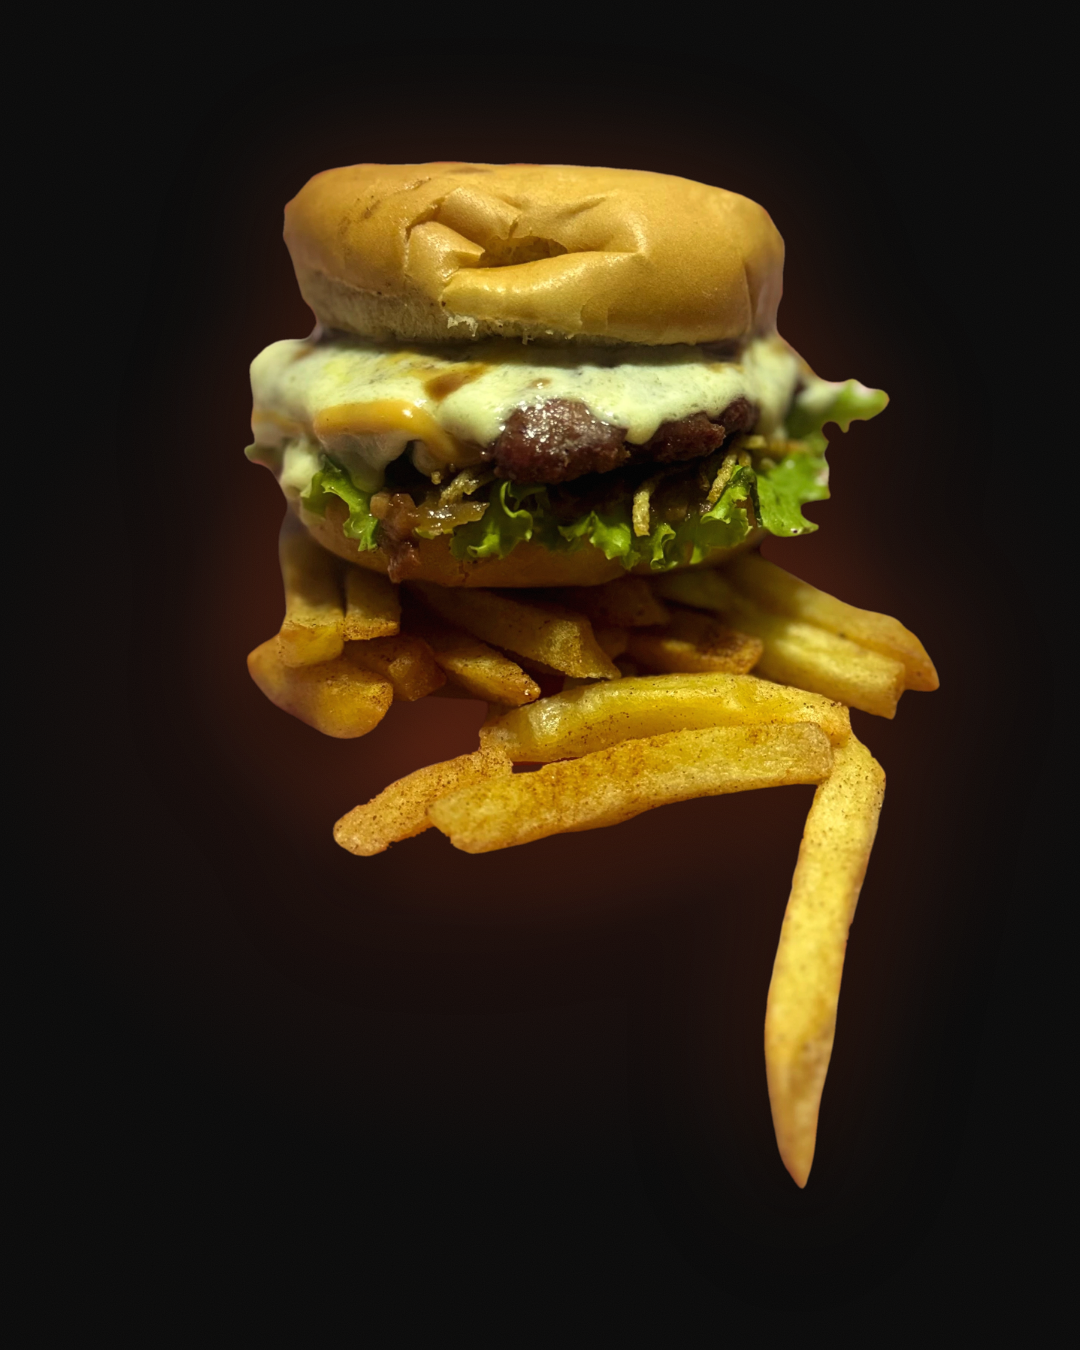
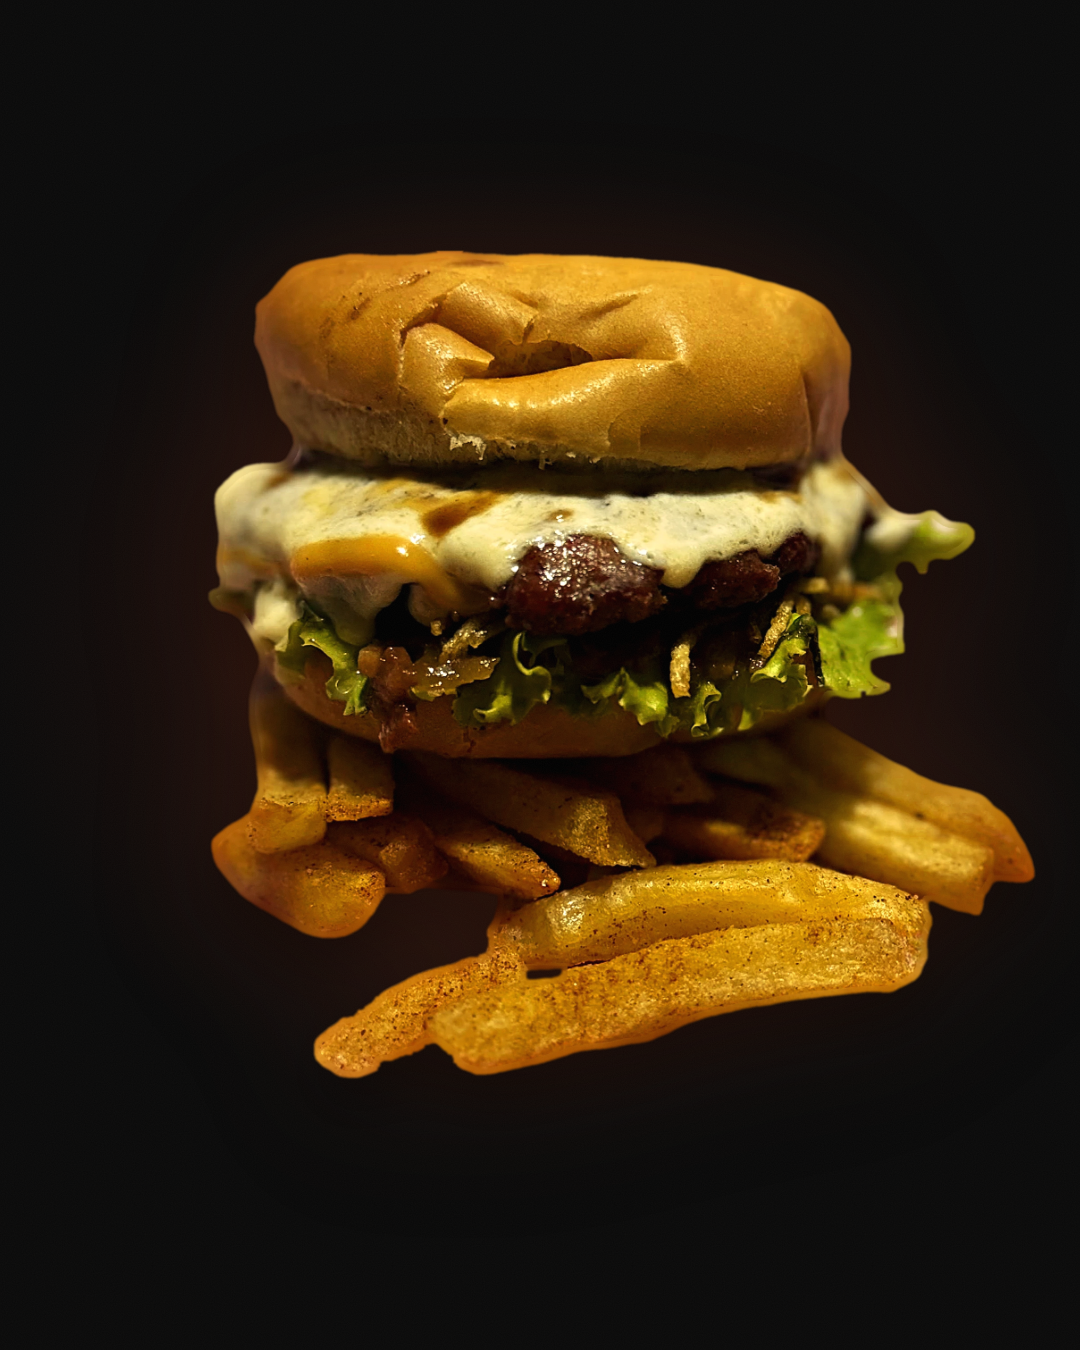
origo: La Brasa retocada, sin precio y centrada
- Papa larga borrada con IA (LaMa) sobre la foto original y nuevo recorte
- Gradación de color: sin tinte verde, pan tostado, carne y papas con más vida
- Silueta pareja y bordes descontaminados del rojo del mantel
- Pieza sin precio, nombre centrado y hamburguesa alineada al eje del pan
- Scripts del proceso en foto/proceso para repetirlo con otros platos

Claude-Session: https://claude.ai/code/session_01UkupjETp9Vt18pzUyhjpjY

diff --git a/origo/foto/la-brasa.html b/origo/foto/la-brasa.html
@@ -32,8 +32,8 @@
     position: relative;
     overflow: hidden;
     background:
-      radial-gradient(ellipse 520px 430px at 50% 47%, rgb(255 90 31 / 0.30), rgb(255 90 31 / 0) 70%),
-      radial-gradient(ellipse 760px 640px at 50% 52%, rgb(42 15 10 / 0.95), rgb(42 15 10 / 0) 75%),
+      radial-gradient(ellipse 500px 420px at 50% 46%, rgb(255 90 31 / 0.30), rgb(255 90 31 / 0) 70%),
+      radial-gradient(ellipse 760px 640px at 50% 48%, rgb(42 15 10 / 0.95), rgb(42 15 10 / 0) 75%),
       var(--negro);
   }
 
@@ -64,12 +64,13 @@
   .plato {
     position: absolute;
     left: 50%;
-    top: 205px;
-    height: 830px;
-    /* El pan queda centrado; la papa larga de la derecha descentra la caja de la imagen. */
-    transform: translateX(calc(-50% + 42px));
+    top: 225px;
+    height: 790px;
+    /* Las papas se abren más a la derecha: se corre la imagen para que el eje del pan
+       quede en el centro del lienzo (desfase medido: 9.85% del ancho de la imagen). */
+    transform: translateX(calc(-50% + 9.85%));
     filter:
-      drop-shadow(0 0 60px rgb(255 90 31 / 0.22))
+      drop-shadow(0 0 70px rgb(255 90 31 / 0.12))
       drop-shadow(0 28px 30px rgb(0 0 0 / 0.65));
   }
 
@@ -77,11 +78,8 @@
     position: absolute;
     left: var(--margen-x);
     right: var(--margen-x);
-    bottom: 150px;
-    display: flex;
-    align-items: center;
-    justify-content: space-between;
-    gap: 24px;
+    bottom: 156px;
+    text-align: center;
   }
   .ficha__nombre {
     margin: 0;
@@ -101,14 +99,6 @@
     color: var(--brasa);
     text-transform: uppercase;
   }
-  .ficha__precio {
-    font-family: var(--f-titular);
-    font-size: 76px;
-    line-height: 1;
-    color: var(--mostaza);
-    white-space: nowrap;
-  }
-
   .pie {
     position: absolute;
     left: 0;
@@ -140,7 +130,7 @@
   .lienzo--limpia .marca,
   .lienzo--limpia .ficha,
   .lienzo--limpia .pie { display: none; }
-  .lienzo--limpia .plato { top: 160px; height: 1030px; transform: translateX(calc(-50% + 52px)); }
+  .lienzo--limpia .plato { top: 250px; height: 830px; }
 </style>
 </head>
 <body>
@@ -165,11 +155,8 @@
   <img class="plato" src="../assets/la-brasa-recorte.webp" alt="Hamburguesa La Brasa con papas fritas">
 
   <section class="ficha">
-    <div>
-      <h1 class="ficha__nombre">La Brasa</h1>
-      <p class="ficha__tipo">Hamburguesa con papas</p>
-    </div>
-    <span class="ficha__precio">$22.000</span>
+    <h1 class="ficha__nombre">La Brasa</h1>
+    <p class="ficha__tipo">Hamburguesa con papas</p>
   </section>
 
   <footer class="pie">

diff --git a/origo/foto/proceso/bordes.py b/origo/foto/proceso/bordes.py
@@ -1,0 +1,43 @@
+"""Silueta más pareja: quita picos pequeños del recorte y unifica la suavidad del borde."""
+import sys
+import numpy as np
+from PIL import Image, ImageFilter
+
+src, dst = sys.argv[1:3]
+im = Image.open(src).convert("RGBA")
+a = im.getchannel("A")
+
+# Apertura morfológica: elimina salientes finas (pelusas de lechuga, bordes dentados).
+binaria = a.point(lambda p: 255 if p > 110 else 0)
+abierta = binaria.filter(ImageFilter.MinFilter(13)).filter(ImageFilter.MaxFilter(13))
+# Cierre: rellena muescas pequeñas hacia adentro.
+cerrada = abierta.filter(ImageFilter.MaxFilter(9)).filter(ImageFilter.MinFilter(9))
+# Borde suave y homogéneo en toda la silueta.
+suave = cerrada.filter(ImageFilter.GaussianBlur(2.2))
+
+# Nunca agregar opacidad donde el recorte original no tenía comida.
+final = np.minimum(np.asarray(suave), np.asarray(a.filter(ImageFilter.MaxFilter(5))))
+# Descontaminar el borde: el contorno trae color del mantel. Se reemplaza por el color
+# del interior inmediato (promedio ponderado de la zona sólida cercana).
+rgb = np.asarray(im.convert("RGB")).astype(np.float32)
+interior = Image.fromarray(((final > 250) * 255).astype(np.uint8)).filter(ImageFilter.MinFilter(17))
+w = np.asarray(interior.filter(ImageFilter.GaussianBlur(14))).astype(np.float32)[..., None] / 255
+num = np.stack([np.asarray(Image.fromarray((rgb[..., c] * (np.asarray(interior)[..., ] / 255)).astype(np.uint8))
+                .filter(ImageFilter.GaussianBlur(14))).astype(np.float32) for c in range(3)], -1)
+color_interior = num / np.maximum(w, 1e-3)
+franja = np.asarray(Image.fromarray(((final < 250) * 255).astype(np.uint8)).filter(ImageFilter.MaxFilter(19))) > 0
+franja &= final > 0
+peso = np.where(franja[..., None] & (w > 0.02), 0.8, 0.0)
+rgb = rgb * (1 - peso) + color_interior * peso
+im = Image.fromarray(np.clip(rgb, 0, 255).astype(np.uint8))
+
+im.putalpha(Image.fromarray(final.astype(np.uint8)))
+im = im.crop(im.getbbox())
+im.save(dst)
+
+# Eje del pan: centro horizontal de las filas superiores (tapa del pan).
+al = np.asarray(im.getchannel("A")) > 128
+filas = al[: int(al.shape[0] * 0.2)]
+xs = [np.nonzero(f)[0] for f in filas if f.any()]
+centro_pan = np.mean([(x.min() + x.max()) / 2 for x in xs])
+print("ok", im.size, "centro_pan_x", round(centro_pan), "desfase_px", round(centro_pan - im.width / 2))

diff --git a/origo/foto/proceso/limpiar.py b/origo/foto/proceso/limpiar.py
@@ -1,0 +1,50 @@
+"""Limpia restos del mantel rojo/blanco en el recorte y aplica un ajuste cálido."""
+import sys
+import numpy as np
+from PIL import Image, ImageFilter
+
+src, dst = sys.argv[1:3]
+im = Image.open(src).convert("RGBA")
+a = np.asarray(im).astype(np.float32)
+r, g, b, al = a[..., 0], a[..., 1], a[..., 2], a[..., 3]
+
+# 1) Píxeles de mantel: rojo/rosado con azul por encima del verde (la comida es naranja/amarilla).
+mantel = (r > g + 55) & (b > g + 8) & (r > 140)
+# En la zona de las papas (debajo del pan) el mantel aparece en sombra: umbral más amplio.
+filas = np.arange(a.shape[0])[:, None]
+zona_papas = filas > int(a.shape[0] * 0.57)
+mantel |= zona_papas & (r > g + 30) & (b > g - 2) & (r > 80)
+# Rojo del mantel en sombra entre papas: verde bajo y algo de azul (la papa casi no tiene azul).
+mantel |= zona_papas & (r > g + 65) & (g < 100) & (b > 25)
+mantel_img = Image.fromarray((mantel * 255).astype(np.uint8)).filter(ImageFilter.MaxFilter(5))
+mantel = np.asarray(mantel_img) > 0
+
+# Mantel blanco que se cuela por huecos: muy claro y casi sin saturación, cerca del borde.
+borde_ext = np.asarray(Image.fromarray((al < 250).astype(np.uint8) * 255).filter(ImageFilter.MaxFilter(25))) > 0
+blanco = (r > 215) & (g > 205) & (b > 200) & borde_ext
+
+al = np.where(mantel | blanco, 0, al)
+
+# 2) Contraer y suavizar el borde 2 px para quitar el halo.
+alpha = Image.fromarray(al.astype(np.uint8)).filter(ImageFilter.MinFilter(5)).filter(ImageFilter.GaussianBlur(1.6))
+al = np.asarray(alpha).astype(np.float32)
+
+# 3) Despill: en la franja del borde, neutralizar tonos rosados residuales.
+franja = np.asarray(Image.fromarray((al < 250).astype(np.uint8) * 255).filter(ImageFilter.MaxFilter(9))) > 0
+rosado = franja & (r > g + 25) & (b > g - 5)
+r = np.where(rosado, g * 1.18, r)
+b = np.where(rosado, g * 0.62, b)
+
+# 4) Ajuste cálido suave para que la comida entone con la luz de brasa.
+r = r * 1.04 + 4
+g = g * 1.00
+b = b * 0.90
+rgb = np.clip(np.stack([r, g, b], -1), 0, 255)
+# Contraste leve alrededor del medio tono.
+rgb = np.clip((rgb - 128) * 1.07 + 128, 0, 255)
+
+out = np.dstack([rgb, al]).astype(np.uint8)
+res = Image.fromarray(out, "RGBA")
+res = res.crop(res.getbbox())
+res.save(dst)
+print("ok", res.size)

diff --git a/origo/foto/proceso/color.py b/origo/foto/proceso/color.py
@@ -1,0 +1,58 @@
+"""Gradación de color 'apetitosa' para la hamburguesa recortada (RGBA)."""
+import sys
+import numpy as np
+from PIL import Image, ImageFilter
+
+src, dst = sys.argv[1:3]
+im = Image.open(src).convert("RGBA")
+alpha = im.getchannel("A")
+rgb = np.asarray(im.convert("RGB")).astype(np.float32) / 255
+
+# 1) Balance: quitar el verde de la luz del local y calentar.
+rgb[..., 0] *= 1.025
+rgb[..., 1] *= 0.975
+rgb[..., 2] *= 0.955
+
+# 2) Trabajo por tono en HSV.
+hsv = np.asarray(Image.fromarray((np.clip(rgb, 0, 1) * 255).astype(np.uint8)).convert("HSV")).astype(np.float32)
+h, s, v = hsv[..., 0] * 360 / 255, hsv[..., 1] / 255, hsv[..., 2] / 255
+
+def banda(c, ancho):
+    d = np.abs((h - c + 180) % 360 - 180)
+    return np.clip(1 - d / ancho, 0, 1)
+
+amarillo_verde = banda(62, 22)      # salsa/queso que se ve verdoso
+dorado = banda(36, 16)              # pan y papas
+rojo = banda(8, 18)                 # carne
+verde = banda(100, 25)              # lechuga
+
+# Salsa: llevar el tono verdoso hacia crema cálido sin volverla amarilla.
+h = h - amarillo_verde * 14 * (1 - s * 0.5)
+# Pan y papas: más saturados y un poco más tostados.
+s = s * (1 + dorado * 0.12)
+v = v * (1 - dorado * 0.07)
+# Carne: más rica y profunda.
+s = s * (1 + rojo * 0.22)
+v = v * (1 - rojo * 0.10)
+# Lechuga: fresca, sin pasarse.
+s = s * (1 + verde * 0.18)
+
+# Vibrance general: sube más lo que está apagado.
+s = np.clip(s + (1 - s) * s * 0.12, 0, 1)
+
+hsv = np.stack([(h % 360) * 255 / 360, s * 255, np.clip(v, 0, 1) * 255], -1).astype(np.uint8)
+rgb = np.asarray(Image.fromarray(hsv, "HSV").convert("RGB")).astype(np.float32) / 255
+
+# 3) Curva en S suave: sombras más profundas, luces con brillo.
+rgb = np.clip(rgb, 0, 1)
+rgb = rgb ** 1.08
+rgb = rgb + 0.12 * (rgb - 0.5) * (1 - np.abs(2 * rgb - 1))
+rgb = np.clip(rgb, 0, 1)
+
+out = Image.fromarray((rgb * 255).astype(np.uint8))
+# 4) Claridad (contraste local) + nitidez fina.
+out = out.filter(ImageFilter.UnsharpMask(radius=30, percent=28, threshold=0))
+out = out.filter(ImageFilter.UnsharpMask(radius=2, percent=70, threshold=2))
+out.putalpha(alpha)
+out.save(dst)
+print("ok")

diff --git a/origo/foto/proceso/quitar_papa.py b/origo/foto/proceso/quitar_papa.py
@@ -1,0 +1,47 @@
+"""Borra la papa larga de la foto original y rellena con LaMa (inpainting)."""
+import sys
+import numpy as np
+import torch
+from PIL import Image, ImageDraw, ImageFilter
+
+foto, recorte, modelo, salida, salida_mascara = sys.argv[1:6]
+
+img = Image.open(foto).convert("RGB")
+W, H = img.size
+alpha = np.asarray(Image.open(recorte))[..., 3] > 100
+
+# Máscara de la papa larga
+mask = np.zeros((H, W), bool)
+# Tramo libre: debajo de la pila de papas, todo lo recortado a la derecha es la papa larga.
+filas = np.arange(H)[:, None]
+cols = np.arange(W)[None, :]
+mask |= alpha & (filas > 2690) & (cols > 1880)
+# Tramo de unión: detrás del extremo de la papa horizontal de adelante.
+m = Image.new("L", (W, H), 0)
+ImageDraw.Draw(m).polygon(
+    [(2132, 2482), (2215, 2488), (2318, 2605), (2312, 2705), (2140, 2705), (2152, 2640), (2150, 2560)],
+    fill=255)
+mask |= np.asarray(m) > 0
+mask_img = Image.fromarray((mask * 255).astype(np.uint8)).filter(ImageFilter.MaxFilter(41))
+mask_img.save(salida_mascara)
+
+# Recorte de trabajo alrededor de la papa (LaMa rinde mejor a resolución moderada).
+x0, y0, x1, y1 = 1600, 2250, 2700, 3900
+escala = 0.6
+sub = img.crop((x0, y0, x1, y1))
+sub_m = mask_img.crop((x0, y0, x1, y1))
+w, h = int(sub.width * escala) // 8 * 8, int(sub.height * escala) // 8 * 8
+t_img = torch.from_numpy(np.asarray(sub.resize((w, h), Image.LANCZOS))).permute(2, 0, 1)[None].float() / 255
+t_m = (torch.from_numpy(np.asarray(sub_m.resize((w, h), Image.NEAREST)))[None, None].float() > 127).float()
+
+lama = torch.jit.load(modelo, map_location="cpu").eval()
+with torch.no_grad():
+    res = lama(t_img, t_m)[0].permute(1, 2, 0).clamp(0, 1).numpy()
+relleno = Image.fromarray((res * 255).astype(np.uint8)).resize(sub.size, Image.LANCZOS)
+
+# Pegar solo dentro de la máscara (con borde suave) para conservar la resolución original fuera.
+suave = sub_m.filter(ImageFilter.GaussianBlur(4))
+sub.paste(relleno, (0, 0), suave)
+img.paste(sub, (x0, y0))
+img.save(salida, quality=96)
+print("ok")

diff --git a/origo/foto/proceso/recortar.py b/origo/foto/proceso/recortar.py
@@ -1,0 +1,9 @@
+import sys
+from PIL import Image
+from rembg import new_session, remove
+
+src, dst, modelo = sys.argv[1:4]
+img = Image.open(src).convert("RGB")
+out = remove(img, session=new_session(modelo), post_process_mask=True)
+out.save(dst)
+print("ok", modelo, out.size)

diff --git a/origo/foto/proceso/README.md b/origo/foto/proceso/README.md
@@ -1,0 +1,29 @@
+# Proceso de edición de fotos de producto
+
+Scripts de Python que convierten una foto tomada en el local en el recorte que usan las piezas de `foto/`.
+Corren en un entorno virtual con `rembg[cpu]`, `torch` y `Pillow`.
+
+| Paso | Script           | Qué hace                                                                                 |
+|------|------------------|------------------------------------------------------------------------------------------|
+| 1    | `quitar_papa.py` | Borra un elemento de la foto original (la papa larga) y rellena con IA (LaMa, inpainting) |
+| 2    | `recortar.py`    | Quita el fondo con IA (modelo BiRefNet vía rembg)                                         |
+| 3    | `limpiar.py`     | Elimina restos del mantel rojo/blanco en bordes y huecos                                  |
+| 4    | `color.py`       | Gradación apetitosa: quita el tinte verde de la luz, pan tostado, carne y papas con más vida |
+| 5    | `bordes.py`      | Silueta pareja, borde suave homogéneo, quita el filo de color del mantel y mide el eje del pan |
+
+Ejemplo para La Brasa:
+
+```bash
+python quitar_papa.py la-brasa.jpg recorte-previo.png big-lama.pt sin-papa.jpg mascara.png
+python recortar.py sin-papa.jpg cut.png birefnet-general
+python limpiar.py cut.png limpio.png
+python color.py limpio.png color.png
+python bordes.py color.png final.png
+```
+
+El resultado se guarda como `assets/<plato>-recorte.webp`. `bordes.py` imprime el desfase del eje del pan,
+que se usa en el `translateX` de la pieza HTML para que el pan quede centrado.
+
+`quitar_papa.py` tiene coordenadas propias de esta foto (el polígono de la papa). Con otra foto hay que
+ajustar la máscara. El modelo LaMa (`big-lama.pt`) se descarga de
+github.com/enesmsahin/simple-lama-inpainting (releases).

diff --git a/origo/README.md b/origo/README.md
@@ -14,6 +14,7 @@ origo/
     la-brasa.html     Foto de La Brasa con fondo de marca (?variante=limpia sin texto)
     exportar.js       Genera los PNG de la foto
     export/           Variante post y limpia, en 1x y 2x
+    proceso/          Scripts de edición: borrado con IA, recorte, color y bordes
   assets/
     barril.png              Ilustración del barril (fondo del logo)
     la-brasa-recorte.webp   Hamburguesa recortada, sin fondo
